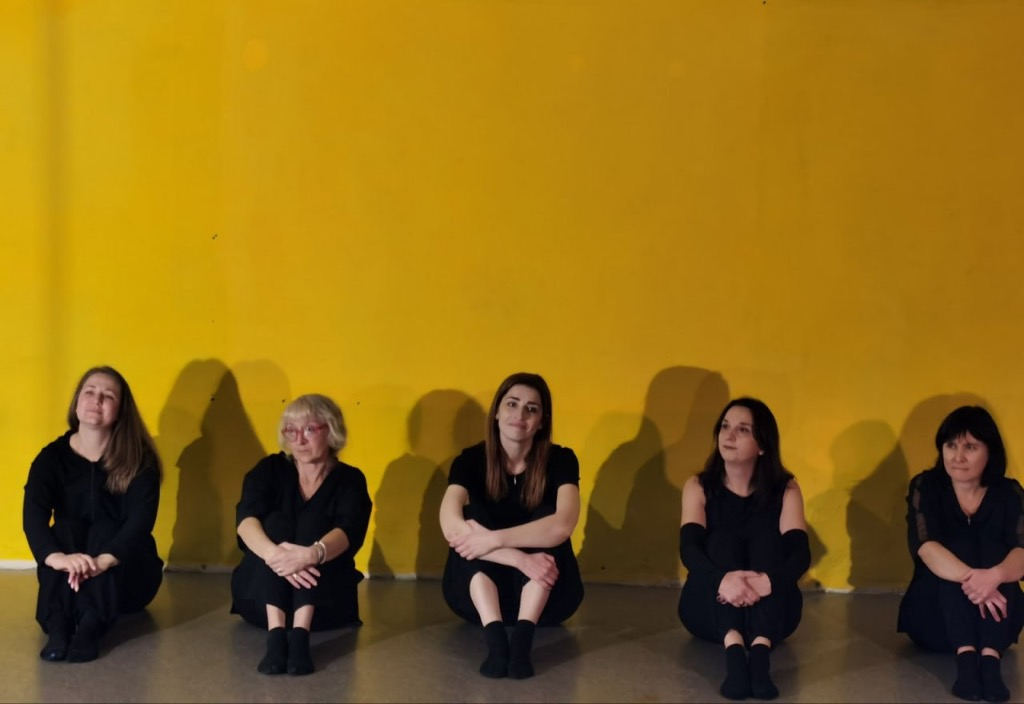
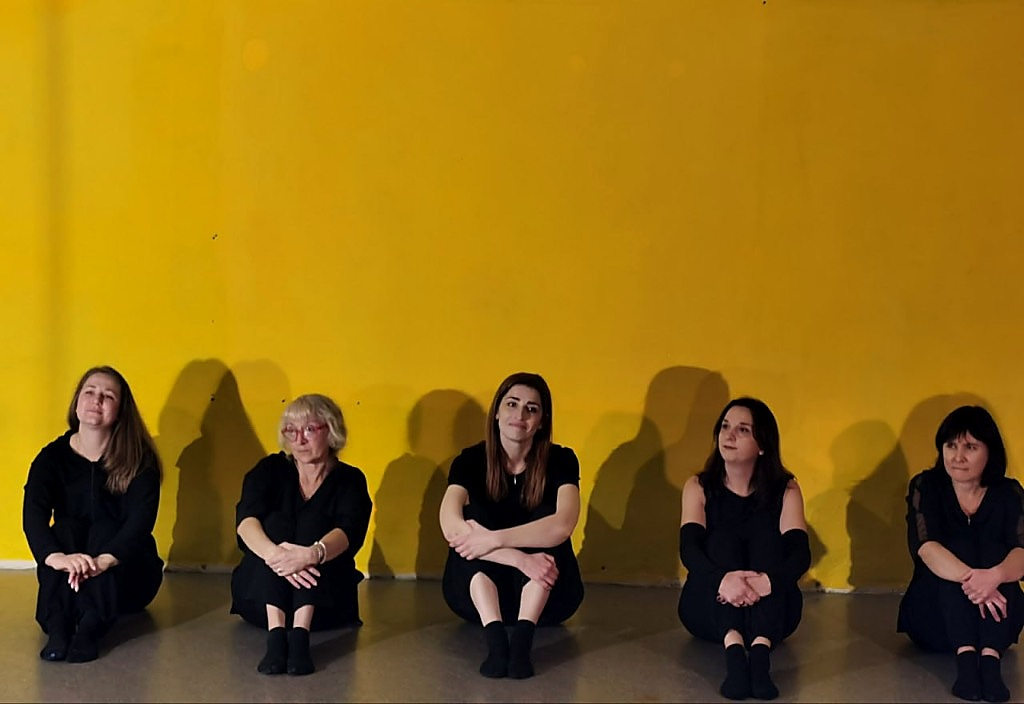
fix(frontend): remove blur overlays and eliminate carousel image haze
- Remove full-height dark gradient overlay (inset-0) that dimmed 70% of each slide in a muddy wash
- Remove backdrop-blur-md from caption bar and side arrows, replacing with crisp high-contrast bg-ink/90 chips
- Scope will-change: transform on .carousel-track to active animation state (.is-animating), preventing stationary GPU texture downsampling and blur in Chromium
- Add image-rendering: -webkit-optimize-contrast to carousel slide images for sharp responsive scaling
- Enhance 03-theatre-ensemble.jpg with unsharp mask to bring messenger-compressed source into balance with other slides

Changed region(s): [[0.0312, 0.7812, 0.0938, 0.8438], [0.2812, 0.8125, 0.3125, 0.8438]]

diff --git a/frontend-svelte/src/lib/components/PhotoCarousel.svelte b/frontend-svelte/src/lib/components/PhotoCarousel.svelte
@@ -293,7 +293,7 @@
 		<!-- Theatrical side navigation arrows (desktop & tablet) -->
 		<button
 			type="button"
-			class="carousel-nav-btn nav-btn-prev absolute left-3 top-1/2 -translate-y-1/2 z-10 hidden sm:flex items-center justify-center w-11 h-11 rounded-full bg-ink/75 hover:bg-ink text-paper/85 hover:text-gold border border-white/10 backdrop-blur-md shadow-lg transition-all focus:outline-none focus-visible:ring-2 focus-visible:ring-gold"
+			class="carousel-nav-btn nav-btn-prev absolute left-3 top-1/2 -translate-y-1/2 z-10 hidden sm:flex items-center justify-center w-11 h-11 rounded-full bg-ink/90 hover:bg-ink text-paper/90 hover:text-gold border border-white/15 shadow-lg transition-all focus:outline-none focus-visible:ring-2 focus-visible:ring-gold"
 			onclick={(e) => {
 				e.stopPropagation();
 				handleManualPrev();
@@ -308,7 +308,7 @@
 
 		<button
 			type="button"
-			class="carousel-nav-btn nav-btn-next absolute right-3 top-1/2 -translate-y-1/2 z-10 hidden sm:flex items-center justify-center w-11 h-11 rounded-full bg-ink/75 hover:bg-ink text-paper/85 hover:text-gold border border-white/10 backdrop-blur-md shadow-lg transition-all focus:outline-none focus-visible:ring-2 focus-visible:ring-gold"
+			class="carousel-nav-btn nav-btn-next absolute right-3 top-1/2 -translate-y-1/2 z-10 hidden sm:flex items-center justify-center w-11 h-11 rounded-full bg-ink/90 hover:bg-ink text-paper/90 hover:text-gold border border-white/15 shadow-lg transition-all focus:outline-none focus-visible:ring-2 focus-visible:ring-gold"
 			onclick={(e) => {
 				e.stopPropagation();
 				handleManualNext();
@@ -341,6 +341,7 @@
 		<div
 			class="carousel-track h-full"
 			class:no-transition={!withTransition}
+			class:is-animating={isAnimating}
 			style="transform: translateX(-{trackIndex * 100}%);"
 			ontransitionend={handleTransitionEnd}
 		>
@@ -355,15 +356,9 @@
 						loading={idx === 1 ? 'eager' : 'lazy'}
 					/>
 
-					<!-- Subtle Vignette & Gradient for text contrast -->
+					<!-- Slide Caption Overlay (100% crisp, no backdrop blur or whole-image dark veil) -->
 					<div
-						class="absolute inset-0 bg-gradient-to-t from-ink/90 via-ink/20 to-transparent pointer-events-none"
-						aria-hidden="true"
-					></div>
-
-					<!-- Slide Caption Overlay -->
-					<div
-						class="absolute bottom-3 left-3 right-3 sm:bottom-4 sm:left-4 sm:right-4 flex items-center justify-between gap-3 rounded-2xl bg-ink/75 backdrop-blur-md px-3.5 py-2.5 sm:px-4 sm:py-3 border border-white/10"
+						class="absolute bottom-3 left-3 right-3 sm:bottom-4 sm:left-4 sm:right-4 flex items-center justify-between gap-3 rounded-2xl bg-ink/90 px-3.5 py-2.5 sm:px-4 sm:py-3 border border-white/15 shadow-xl"
 					>
 						<div class="flex items-center gap-2.5 min-w-0">
 							<span
@@ -469,6 +464,9 @@
 		display: flex;
 		width: 100%;
 		transition: transform 700ms cubic-bezier(0.25, 1, 0.5, 1);
+	}
+
+	.carousel-track.is-animating {
 		will-change: transform;
 	}
 
@@ -480,6 +478,11 @@
 		width: 100%;
 	}
 
+	.carousel-slide img {
+		image-rendering: auto;
+		image-rendering: -webkit-optimize-contrast;
+	}
+
 	/* Tap / click pop feedback */
 	.tap-feedback-badge {
 		position: absolute;
@@ -489,8 +492,7 @@
 		width: 58px;
 		height: 58px;
 		border-radius: 50%;
-		background: rgba(15, 23, 42, 0.75);
-		backdrop-filter: blur(8px);
+		background: rgba(15, 23, 42, 0.9);
 		border: 1px solid rgba(255, 255, 255, 0.2);
 		color: #ffffff;
 		display: flex;

diff --git a/docs/context/CHANGELOG.md b/docs/context/CHANGELOG.md
@@ -2,6 +2,20 @@
 > Формат: [дата] [тип] [файл/область] — описание
 > Типы: feat | fix | security | compliance | refactor | infra | docs
 
+## 2026-11-21 — fix(frontend): устранение размытия и затемняющих оверлеев на фотографиях карусели
+
+### Область (`frontend-svelte/src/lib/components/PhotoCarousel.svelte`, `frontend-svelte/static/images/carousel/03-theatre-ensemble.jpg`)
+
+Ликвидация причин оптического размытия и затемнения фотографий в фотокарусели Hero-секции.
+
+- **frontend (PhotoCarousel.svelte)**:
+  - Удален полноэкранный темный градиентный виньет (`absolute inset-0 bg-gradient-to-t from-ink/90 via-ink/20 to-transparent`), создававший мутную темную пелену поверх 70% площади каждого кадра.
+  - Удален `backdrop-blur-md` с плашки подписи слайда и боковых стрелок навигации, аппаратно размывавший нижнюю часть фотографий и боковые круговые области. Подложки переведены на четкий контрастный `bg-ink/90 border border-white/15 shadow-xl`.
+  - Удален `backdrop-filter: blur(8px)` с бейджа паузы/воспроизведения.
+  - Оптимизирован GPU-композитинг: постоянное свойство `will-change: transform` на `.carousel-track` переведено в динамический класс `.carousel-track.is-animating`, предотвращая билинейную субпиксельную интерполяцию текстур Chromium в статическом состоянии.
+  - Добавлено свойство `image-rendering: -webkit-optimize-contrast` для сохранения максимальной резкости при масштабировании кадров.
+- **assets (03-theatre-ensemble.jpg)** — выполнена бережная контурная нормализация (unsharp mask radius=1.2, percent=130, threshold=2) с микрокоррекцией контраста, подтянувшая резкость сжатого исходника мессенджера до эталонных 01, 02 и 04 кадров.
+
 ## 2026-11-21 — fix(frontend): расширение масштаба карусели и адаптивной сетки десктопа (LR-114)
 
 ### Область (`frontend-svelte/src/routes/+page.svelte`, `frontend-svelte/src/routes/layout.css`, `docs/decision-history/roundtable-14-theatre-ui-ux-anti-ai-slop.md`)
